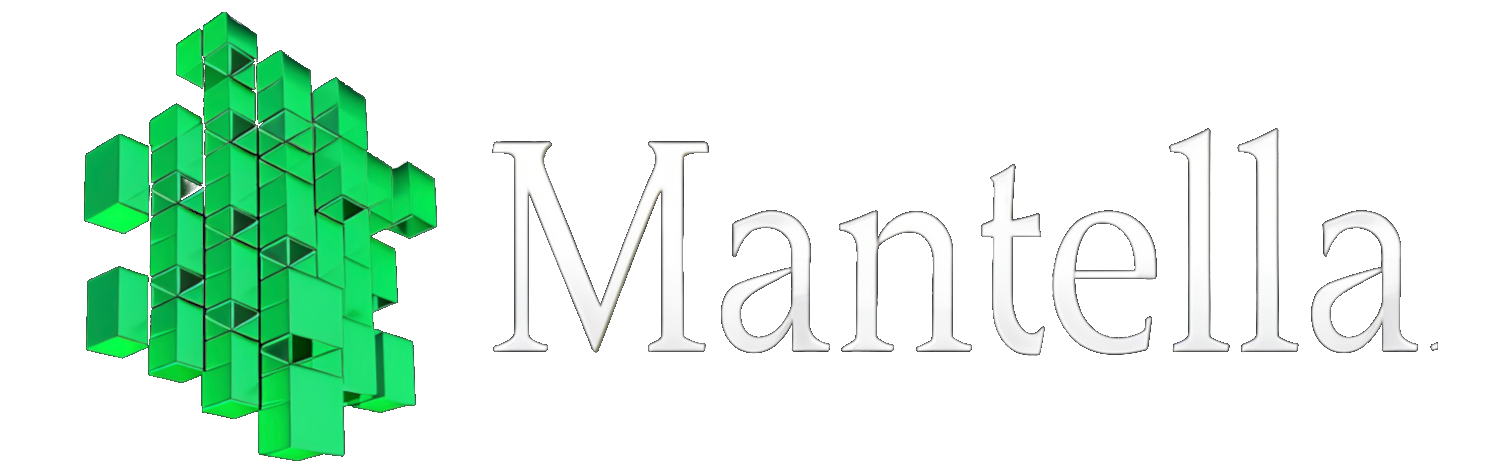
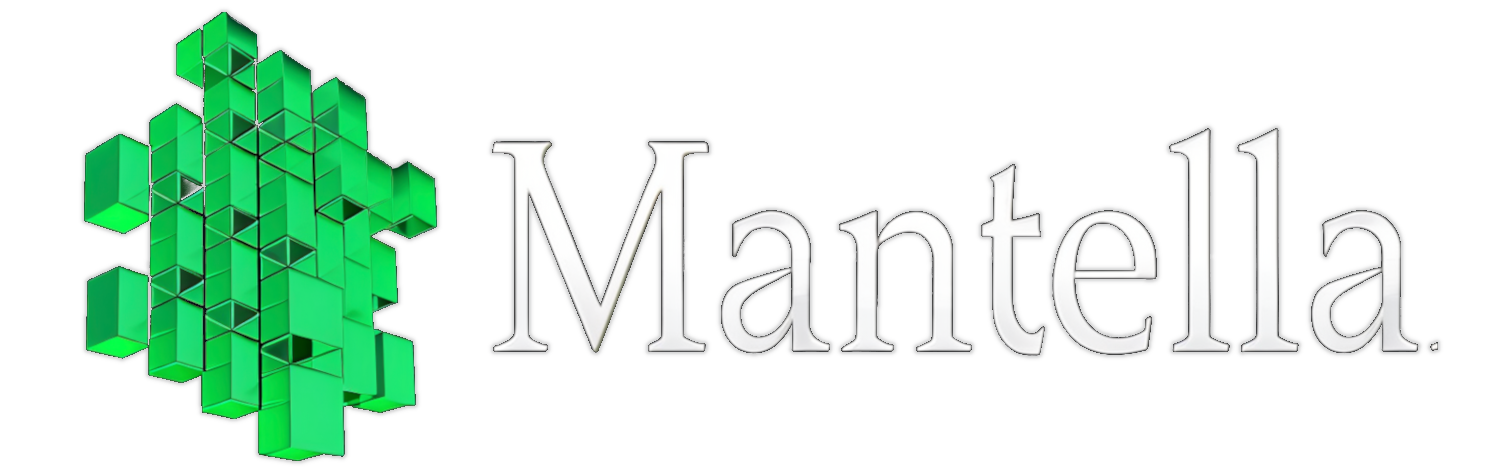
Improved image transparencies and added fine tuned models

diff --git a/docs/pages/fine_tuned_models.md b/docs/pages/fine_tuned_models.md
@@ -1,0 +1,79 @@
+(fine-tuned-models)=
+# Fine-Tuned Models
+
+<div style="display: flex; align-items: center;">
+  <div style="flex: none; white-space: nowrap; text-align: right; padding-right: 5px;">
+    Available On
+  </div>
+  <div>
+    <a href="https://huggingface.co/art-from-the-machine/Mantella-Skyrim-Llama-3-8B-GGUF" target="_blank">
+      <img src="../_static/img/hugging_face_link_transparent.png" alt="Hugging Face Banner that links to Mantella Fine-Tuned Models" style="max-width:25%;height:auto;">
+    </a>
+  </div>
+</div> 
+
+<hr style="border: 1px solid #505050; margin-top: 5px; margin-bottom: 15px;">
+
+## Introduction
+Fine-tuning LLMs allows these models to learn the nuances, style, and knowledge of a specific domain, resulting in improved performance and more coherent outputs.
+To enhance the quality of Skyrim and Fallout conversations, fine-tuned models specifically tailored to the dialogue style and lore of these games can improve LLM output when compared to their non-fine-tuned counterparts.
+
+## Skyrim
+
+### Dataset
+An Alpaca-style dataset of 8,800+ player <-> NPC interactions has been generated via the [Mantella LLM Fine-Tuning repo](https://github.com/art-from-the-machine/Mantella-LLM-Fine-Tuning). This dataset has been used to fine-tune the below LLMs.
+
+### Fine-Tunes
+
+#### Llama 3 8B Instruct
+Link to Model: [https://huggingface.co/art-from-the-machine/Mantella-Skyrim-Llama-3-8B-GGUF](https://huggingface.co/art-from-the-machine/Mantella-Skyrim-Llama-3-8B-GGUF)
+
+<details>
+<summary><b>Example Output</b></summary>
+
+```json
+[
+    {
+        "role": "assistant",
+        "content": "Ah, welcome to The Bannered Mare! Have a seat by the fire, and I'll have one of the barmaids bring you a pint of our finest ale. What brings you to Whiterun today?"
+    },
+    {
+        "role": "user",
+        "content": "What's life like in Whiterun?"
+    },
+    {
+        "role": "assistant",
+        "content": "Life in Whiterun is good, thank you for asking. The Jarl's been doing a fine job of keeping the city prosperous. Of course, there's always something going on, whether it's the Companions looking for new members or the Thieves Guild trying to... well, steal things. But overall, it's a good place to live."
+    },
+    {
+        "role": "user",
+        "content": "What do you think about the civil war in Skyrim?"
+    },
+    {
+        "role": "assistant",
+        "content": "The civil war? Well, I think it's a shame, to be honest. I've got friends on both sides of the conflict, and it's hard to see them fighting each other. But I suppose it's not my place to say who's right or wrong. I just hope it ends soon and we can all get back to living our lives in peace."
+    },
+    {
+        "role": "user",
+        "content": "I'm looking for work. Got any leads?"
+    },
+    {
+        "role": "assistant",
+        "content": "Work, you say? Well, the city's always looking for people to help with the harvest, and the Jarl's guards could use some extra hands. If you're looking for something more... adventurous, you might want to talk to the Companions. They're always looking for new members to join their ranks. Just be warned, though - it's not for the faint of heart."
+    },
+    {
+        "role": "user",
+        "content": "I'm looking for an Elder Scroll. Do you know anything about them?"
+    },
+    {
+        "role": "assistant",
+        "content": "Elder Scrolls? Ah, yes... I've heard rumors about those ancient artifacts. Some say they hold the secrets of the world, while others claim they're cursed. I don't know much about them, but I've heard that the Greybeards in the mountains might know more. They're a reclusive bunch, but if you're willing to brave the wilderness, you might be able to learn something from them."
+    }
+]
+```
+</details>
+
+## Contribute
+Many improvements can be made to the Skyrim dataset. A Fallout 4 dataset could also potentially be generated using the same methodology used to create the Skyrim dataset. A full list of potential future improvements can be found [here](https://github.com/art-from-the-machine/Mantella-LLM-Fine-Tuning#future-work).
+
+If you would like to fine-tune your own Skyrim or Fallout models, [Unsloth](https://unsloth.ai/) is a great way to get started with template Colab notebooks. If you are eager to fine-tune your own models, but are not sure about how to start, feel free to reach out on [Discord](https://discord.gg/Q4BJAdtGUE)!

diff --git a/docs/index.md b/docs/index.md
@@ -6,10 +6,10 @@
   </div>
   <div>
     <a href="https://www.nexusmods.com/skyrimspecialedition/mods/98631" target="_blank">
-      <img src="./_static/img/nexus_mods_link.png" alt="Skyrim SE Nexus banner that links to Mantella" style="max-width:25%;height:auto;">
+      <img src="./_static/img/nexus_mods_link_transparent.png" alt="Skyrim SE Nexus banner that links to Mantella" style="max-width:25%;height:auto;">
     </a>
     <a href="https://www.nexusmods.com/fallout4" target="_blank">
-      <img src="./_static/img/nexus_mods_fallout4_link.png" alt="Fallout 4 Nexus banner that links to Mantella" style="max-width:25%;height:auto;">
+      <img src="./_static/img/nexus_mods_fallout4_link_transparent.png" alt="Fallout 4 Nexus banner that links to Mantella" style="max-width:25%;height:auto;">
     </a>
   </div>
 </div> 
@@ -46,6 +46,7 @@ pages/installation
 pages/installation_fallout4
 pages/issues_qna
 pages/adding_modded_npcs
+pages/fine_tuned_models
 pages/contribute
 pages/attributions
 ```
